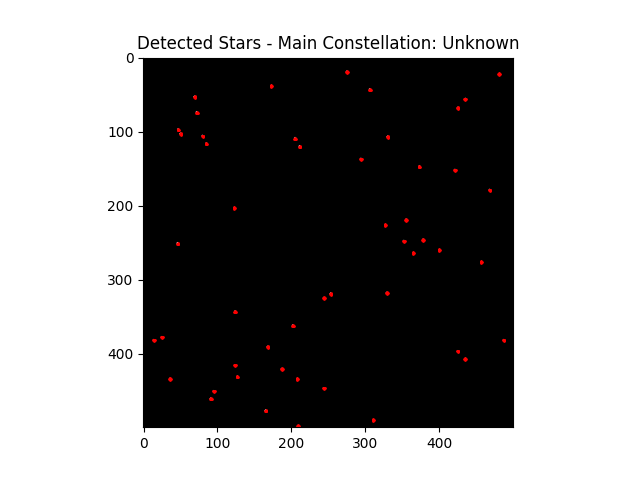
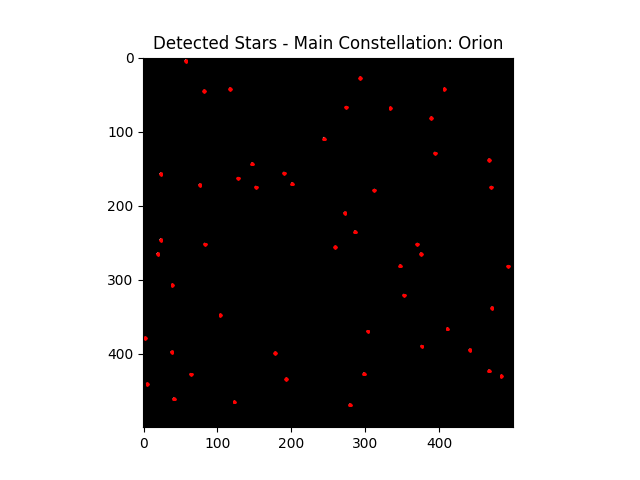
Add constellation pattern matching and line drawing for matched constellations

diff --git a/space_view.py b/space_view.py
@@ -74,6 +74,8 @@ def solve_image_astrometry(image_path, api_key):
     except Exception as e:
         print(f"Error in plate solving: {e}")
         return None
+
+def pixels_to_radec(stars, calib, image_shape):
     if not calib:
         return []
     center_ra = calib['ra']
@@ -88,6 +90,28 @@ def solve_image_astrometry(image_path, api_key):
         dec = center_dec + dec_offset
         radec_list.append((ra, dec))
     return radec_list
+
+# Simple pattern matching for known constellations (fallback)
+def match_constellation_patterns(stars, image_shape):
+    try:
+        print(f"Matching patterns for {len(stars)} stars")
+        print(f"stars[0]: {stars[0]}, type: {type(stars[0])}")
+        # Dummy implementation: if many stars, assume Orion and draw belt lines
+        if len(stars) > 50:
+            # Sort stars by x-coordinate
+            sorted_stars = sorted(stars, key=lambda p: p[0])
+            print(f"Sorted stars: {len(sorted_stars)}")
+            # Take first 3 as belt
+            if len(sorted_stars) >= 3:
+                belt = sorted_stars[:3]
+                lines = [(belt[0], belt[1]), (belt[1], belt[2])]
+                print(f"Matched Orion with lines: {lines}")
+                return "Orion", lines
+        print("No match")
+        return None, []
+    except Exception as e:
+        print(f"Error in match: {e}")
+        return None, []
 
 # Identify constellations
 def identify_constellations(radec_list):
@@ -168,17 +192,22 @@ if __name__ == '__main__':
         print(f"All constellations: {all_const}")
     else:
         print("Plate solving failed. Trying simple pattern matching...")
-        main_constellation = match_constellation_patterns(stars, image.shape)
+        print("About to call match")
+        main_constellation, lines = match_constellation_patterns(stars, image.shape)
         if main_constellation:
             print(f"Pattern matched: {main_constellation}")
         else:
             print("No known constellation pattern matched.")
             main_constellation = "Unknown"
+            lines = []
 
     # Visualize
     plt.imshow(cv2.cvtColor(image, cv2.COLOR_BGR2RGB))
     for x, y in stars:
         plt.scatter(x, y, c='red', s=1)
+    for line in lines:
+        (x1, y1), (x2, y2) = line
+        plt.plot([x1, x2], [y1, y2], 'b-', linewidth=2)
     plt.title(f"Detected Stars - Main Constellation: {main_constellation}")
     plt.savefig('constellation_detection.png')
     plt.show()
